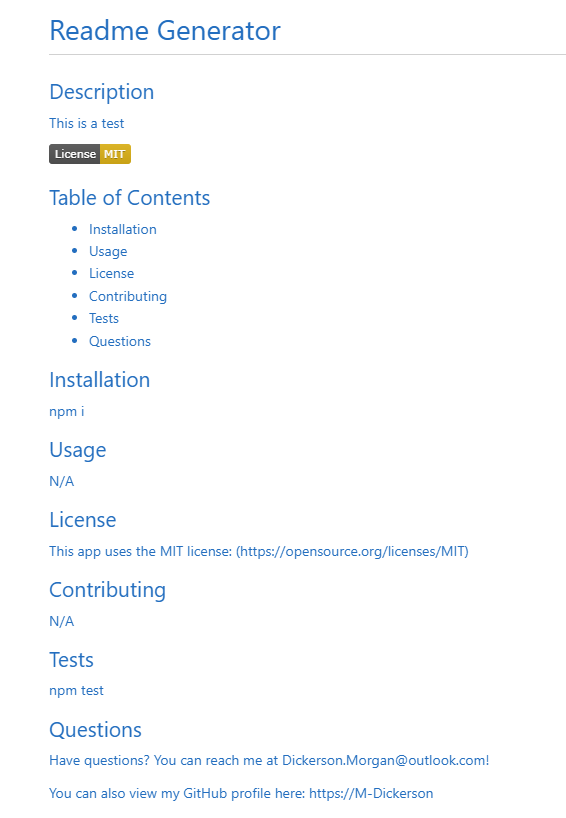
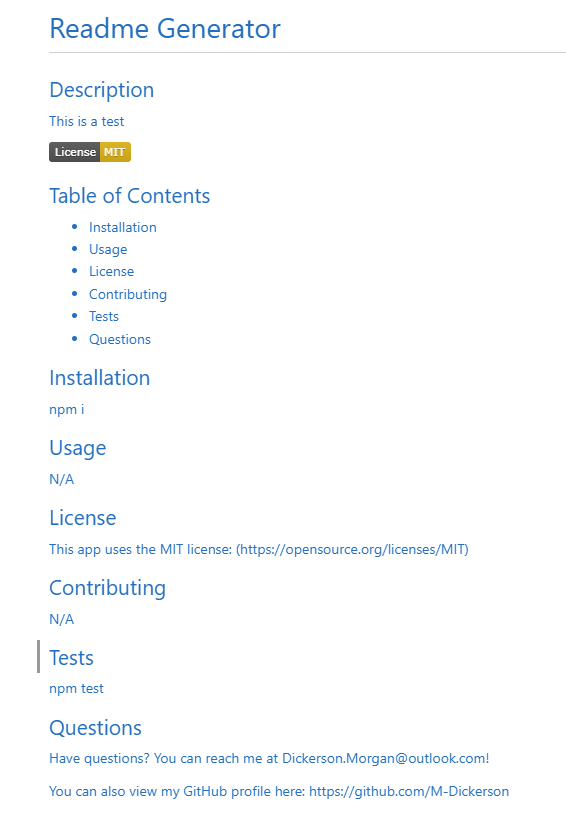
fixed the github link typo on readme

diff --git a/utils/generateMarkdown.js b/utils/generateMarkdown.js
@@ -14,7 +14,6 @@ function renderLicenseBadge(license) {
       return "";
   }
 }
-
 // TODO: Create a function that returns the license link
 // If there is no license, return an empty string
 function renderLicenseLink(license) {
@@ -31,7 +30,6 @@ function renderLicenseLink(license) {
       return "";
   }
 }
-
 // TODO: Create a function that returns the license section of README
 // If there is no license, return an empty string
 function renderLicenseSection(license) {
@@ -48,7 +46,6 @@ function renderLicenseSection(license) {
       return "";
   }
 }
-
 // TODO: Create a function to generate markdown for README
 function generateMarkdown(data) {
   return `# ${data.title}
@@ -85,8 +82,8 @@ function generateMarkdown(data) {
   ## Questions
   Have questions? You can reach me at ${data.email}!
   
-  You can also view my GitHub profile here: https://${data.username}
+  You can also view my GitHub profile here: https://github.com/${data.username}
 `;
 }
-
+// Module exports
 module.exports = generateMarkdown;

diff --git a/README.md b/README.md
@@ -5,9 +5,6 @@
 The motivation and purpose behind this project was to create an index.js file that can generate a readme through a series of prompts. It solves the issue of not being able to easily generate a readme locally through our machines. I learned about node and how to properly install it, as well as creating a toggle menu through node.
 
 ## Table of Contents
-
-If your README is long, add a table of contents to make it easy for users to find what they need.
-
 - [Installation](#installation)
 - [Usage](#usage)
 - [Credits](#credits)
@@ -15,7 +12,7 @@ If your README is long, add a table of contents to make it easy for users to fin
 
 ## Installation
 
-Node and Inquirer MUST be installed
+Node and Inquirer MUST be installed!
 
 ## Usage
 

diff --git a/utils/README.md b/utils/README.md
@@ -32,4 +32,4 @@
   ## Questions
   Have questions? You can reach me at Dickerson.Morgan@outlook.com!
   
-  You can also view my GitHub profile here: https://M-Dickerson
+  You can also view my GitHub profile here: https://github.com/M-Dickerson
